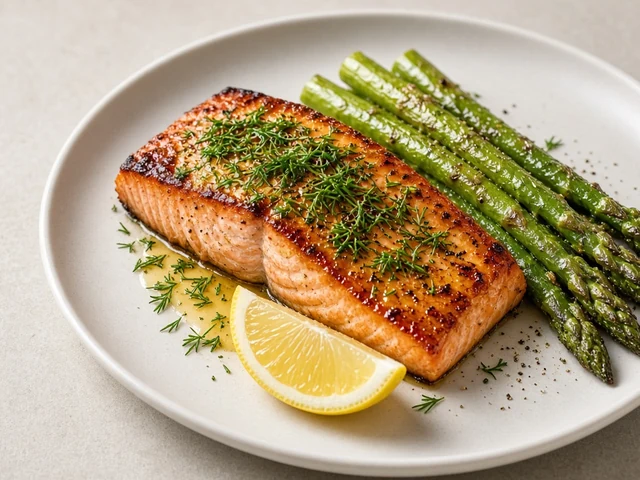
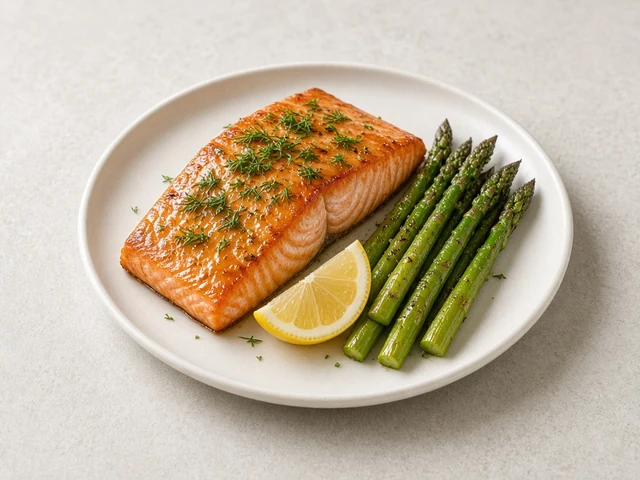
S-08: replace the salmon hero after the crop fail
Export chosen-r3 with the same center crop. The new WebP keeps the plate, the asparagus tips, one lemon wedge, and a glossy glaze with no grill marks.

diff --git a/test/s08-flavor-quality.test.js b/test/s08-flavor-quality.test.js
@@ -428,10 +428,10 @@ describe("S-08 hero images", () => {
   const heroes = [
     {
       slug: "maple-mustard-glazed-salmon",
[3 lines of base64/hex data omitted]
-      qa: "audit_fail",
[3 lines of base64/hex data omitted]
+      qa: "audit_pass",
       prompt: "docs/catalog/s08/image-prompt-maple-mustard-glazed-salmon.md",
     },
     {

diff --git a/docs/catalog/s08/IMAGE-PROVENANCE.md b/docs/catalog/s08/IMAGE-PROVENANCE.md
@@ -1,6 +1,6 @@
 # S-08 hero image provenance — salmon, pesto, Moroccan chickpea
 
-Status: **exported and independently audited.** The three public WebPs are on this branch. The salmon export fails the crop check. Pesto and Moroccan pass.
+Status: **exported and independently audited.** The three public WebPs are on this branch. Salmon r3, pesto, and Moroccan pass. Salmon r1 failed the crop audit and is not the shipped file.
 
 - Source policy: original AI generation only. No web search, stock, restaurant, recipe-site, or scraped images were used.
 - Method: `original_ai_generation` (the catalog value for an AI-generated illustration; `image.provenance` is `ai_illustration`).
@@ -18,7 +18,7 @@ The generation note said the tool returned 1024×576. The JPEGs whose sha256 mat
 
 | slug | chosen file | sha256 | measured |
 |---|---|---|---|
[4 lines of base64/hex data omitted]
 
@@ -26,7 +26,9 @@ The generation note said the tool returned 1024×576. The JPEGs whose sha256 mat
 
 An earlier set (salmon `fe36cd71…`, pesto `0b3ef4ed…`, Moroccan `7a439cb0…`) was chosen and then regenerated because those files never became readable to the exporter. The attached prompts record that round and its rejects. The 2026-10-18 8:10 PM CT regeneration is what shipped:
 
-- Salmon r1 (`84867b68…`): same prompt as the earlier c3. One lemon wedge, dill on the fish, unglazed asparagus, no grill marks. Author note: the glaze reads more seared than glossy.
+- Salmon r1 (`84867b68…`): same prompt as the earlier c3. Exported, then failed the independent audit. See below.
+- Salmon r2 (`7951252f…`): rejected before export for grill-stripe marks. That JPEG was not attached and was not audited here.
+- Salmon r3 (`b99df43e…`): the shipped source. The plate sits in the central portion of the 1280×720 frame.
 - Pesto r1 (`f6a515be…`) rejected: pale specks could read as grated cheese. Shipped r2 (`8658a59c…`) adds "entirely green, no white specks, no salt crystals."
 - Moroccan r1 (`6d16bbb5…`) rejected: preserved lemon rendered as large yellow cubes. Shipped r2 (`28b9518a…`) asks for thin slivers.
 
@@ -36,24 +38,30 @@ The rejected regeneration JPEGs were not attached.
 
 | file | dims | bytes | sha256 |
 |---|---|---|---|
[8 lines of base64/hex data omitted]
 
-The same hashes are on each v3 `image.file_hashes`. `image.qa_state` is `audit_fail` or `audit_pass` from the audit below.
+The same hashes are on each v3 `image.file_hashes`. Shipped `image.qa_state` is `audit_pass`. Salmon r1's fail is recorded below and is not the file in `public/images/meals`.
 
 ## Independent audit
 
 The auditor did not author these images. Each verdict is from the exported 1200×900 WebP, checked against its plating brief and the v3 ingredients. The 640 card is the same frame scaled down.
 
-### maple-mustard-glazed-salmon — FAIL
+### maple-mustard-glazed-salmon — PASS
 
-The plate shows one salmon fillet, fresh dill on the fish, unglazed asparagus beside it, and one lemon wedge. No grill marks. The glaze is glossy in places and darker at the edges; it reads more seared than a smooth maple-Dijon coat. That would be a note.
+Shipped file is chosen-r3 (`b99df43e…`), exported with the same center crop. The 1200×900 WebP shows one fillet, a glossy amber glaze with darker caramelized edges, fresh dill on the fish, unglazed asparagus, and one lemon wedge. No grill stripes. The muscle lines on the fillet are not grill marks. Table shows on all four sides of the plate. The asparagus tips end on the plate, inside the frame. The 4:3 window on the 1280×720 source is x=160 to x=1120, and both of those edges are empty table.
 
-The center crop does not keep the plate or the garnish whole. On the 1280×720 source the 4:3 window is x=160 to x=1120. That line passes through the asparagus tips, and the plate surface continues past it, so the exported WebP cuts off the spear tips and the right rim. Left, top, and bottom rims still have table around them. v3 plates the asparagus as a side, and the brief requires the spears inside the frame.
+### maple-mustard-glazed-salmon r1 — FAIL
+
+chosen-r1 (`84867b68…`) was exported and audited first. It had one lemon wedge, dill, unglazed asparagus, and no grill marks. The glaze read more seared than a smooth maple-Dijon coat. The center crop did not keep the plate whole: on that source the line at x=1120 passed through the asparagus tips, and the plate continued past it, so the WebP cut off the spear tips and the right rim. Those WebPs were replaced by r3.
+
+### maple-mustard-glazed-salmon r2 — rejected
+
+chosen-r2 (`7951252f…`) was rejected before export because the glaze carried grill-stripe marks. The brief forbids grill marks. That JPEG was not attached, so this audit did not view it.
 
 ### cashew-pesto-pasta — PASS
 

diff --git a/docs/catalog/s08/image-impact.md b/docs/catalog/s08/image-impact.md
@@ -4,7 +4,7 @@ The three regen heroes are exported under `public/images/meals/`. Lookup still s
 
 | Dish | Regen |
 |---|---|
-| maple-mustard-glazed-salmon | Exported. Independent audit: FAIL. The center crop clips the asparagus tips and the right plate rim. |
+| maple-mustard-glazed-salmon | Re-exported from chosen-r3. Independent audit: PASS. r1 failed the crop. r2 was rejected for grill stripes. |
 | cashew-pesto-pasta | Exported. Independent audit: PASS. Green oily pesto, toasted cashews, no dairy-looking topping. |
 | moroccan-chickpea-skillet | Exported. Independent audit: PASS. Parsley, couscous under the chickpeas, preserved lemon as slivers. |
 | thai-basil-eggplant-stir-fry | Optional. A few red pepper flakes may show. The plate is still eggplant and basil over rice. |
@@ -31,4 +31,4 @@ Plating briefs, using the sections in `factory/IMAGE-SPEC.md`:
 - `docs/catalog/s08/image-plating-pesto.md`
 - `docs/catalog/s08/image-plating-moroccan.md`
 
-`python3 factory/tools/export_meal_webps.py` center-cropped the three sources into the 1200×900 and 640×480 WebP pairs. Hashes, prompts, and the audit are in `IMAGE-PROVENANCE.md`. Salmon fails that audit because the crop clips the asparagus.
+`python3 factory/tools/export_meal_webps.py` center-cropped the three sources into the 1200×900 and 640×480 WebP pairs. Hashes, prompts, and the audit are in `IMAGE-PROVENANCE.md`. Salmon r3 passes that audit.

diff --git a/docs/catalog/s08/image-prompt-maple-mustard-glazed-salmon.md b/docs/catalog/s08/image-prompt-maple-mustard-glazed-salmon.md
@@ -1,6 +1,8 @@
 # Image prompt — maple-mustard-glazed-salmon (S-08 v3 hero)
 
[2 lines of base64/hex data omitted]
+
[1 lines of base64/hex data omitted]
 
 Recipe: catalog/maple-mustard-glazed-salmon/v3.json (rv_maple-mustard-glazed-salmon_v3) on origin/cursor/s08-flavor-quality @ 19336ab.
 Brief: image-plating-brief.md (= docs/catalog/s08/image-plating-salmon.md).
